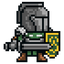
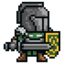
J'adore quand ca marche

diff --git a/src/source/Main.c b/src/source/Main.c
@@ -9,6 +9,7 @@ int main(int argc, char *argv[])
 // extern void delay(unsigned int frameLimit);
 unsigned int frameLimit = SDL_GetTicks() + 16;
 int go;
+int NumSprite=0;
  
 // Initialisation de la SDL
 init("SDL 2");
@@ -29,25 +30,43 @@ gestionInputs(&input);
 
 //On dessine tout
 drawGame();
-SDL_Texture *chevalier=loadImage("src/graphics/epeev31.png");
+if (NumSprite==0 )
+{SDL_Texture *chevalier=loadImage("src/graphics/neutre.png");
+drawImage(chevalier,pos.inposx,pos.inposy);}
+if (NumSprite==1 )
+{SDL_Texture *chevalier=loadImage("src/graphics/marche1.png");
+drawImage(chevalier,pos.inposx,pos.inposy);}
+if (NumSprite==2 )
+{SDL_Texture *chevalier=loadImage("src/graphics/neutre.png");
+drawImage(chevalier,pos.inposx,pos.inposy);}
+if (NumSprite==3 )
+{SDL_Texture *chevalier=loadImage("src/graphics/marche2.png");
 drawImage(chevalier,pos.inposx,pos.inposy);
+NumSprite=0;}
+
+
+
 SDL_RenderPresent(getrenderer());
 //Gestion des déplacements joueurs
 if (input.left==1)
 {
     pos.inposx-=5;
+    NumSprite+=1;
 }
 if (input.right==1)
 {
     pos.inposx+=5;
+    NumSprite+=1;
 }
 if (input.up==1)
 {
     pos.inposy-=5;
+    NumSprite+=1;
 }
 if (input.down==1)
 {
     pos.inposy+=5;
+    NumSprite+=1;
 }
 
 //mouvement(&input, &pos);
